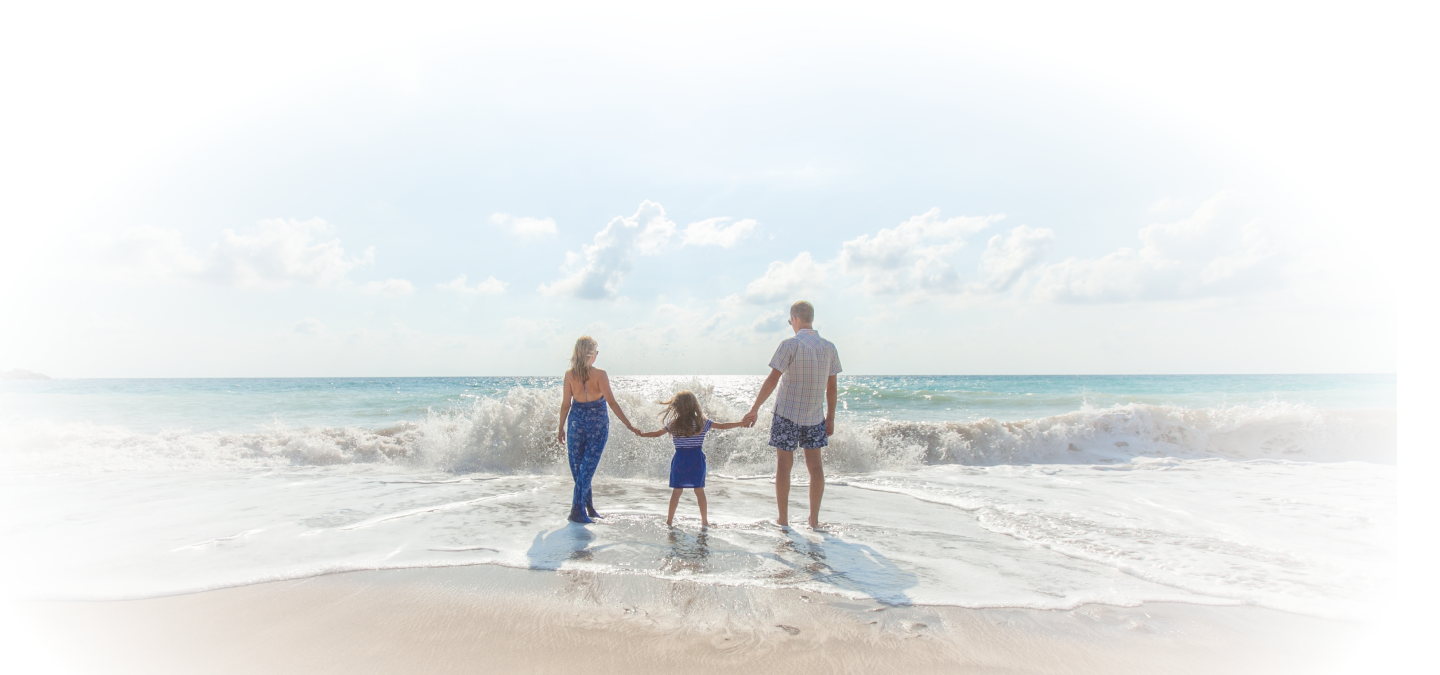
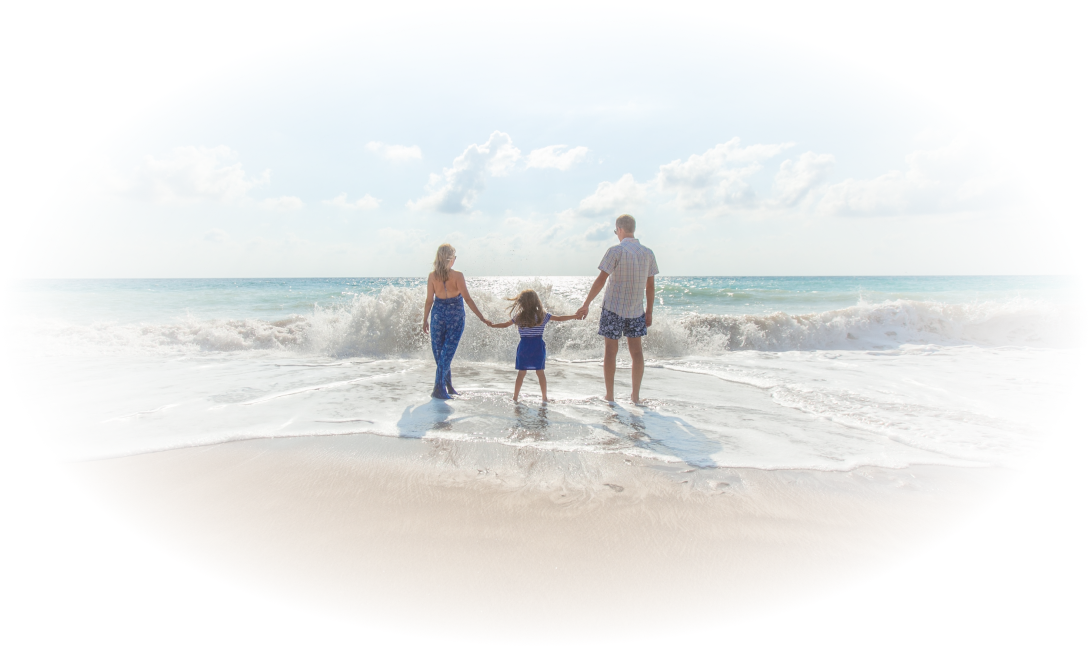
founded style

Changed region(s): [[0.0312, 0.3091, 0.9366, 1.0], [0.4059, 0.3091, 0.4683, 0.34], [0.843, 0.8346, 0.8742, 0.8655]]

diff --git a/public/css/style.less b/public/css/style.less
@@ -15,9 +15,54 @@ body {
     min-width: 600px;
     margin: auto;
     text-align: left;
+    .line_separator {
+        height: 1px;
+        background: white;
+        border-bottom: 1px solid #31303040;
+    }
+    header {
+        display:flex;
+        align-items: flex-start;
+        //flex-wrap: nowrap;
+        > .flex {
+            flex: 1 1 10%;
+        }
+        .navigation_wrapper {
+            height: 80px;
+            nav > ul {
+                //width: 500px;
+                display: flex;
+                flex-wrap: nowrap;
+                justify-content: space-between;
+                //flex-direction: row;
+                align-items: flex-start;
+                //flex-flow: nowrap;
+                //flex-wrap: wrap;
+                li {
+                    //flex: 1 1 20%;
+                    //padding: 10px;
+                    //background: #ffffffd1;
+                    //border-radius: 5px;
+                    text-align: center;
+                    //max-width: 140px;
+                    margin: 10px;
+                    padding: 10px;
+                    font-family: "Quicksand";
+                    border-right: 1px solid white;
+                    a {
+                        color: white;
+                        font-size: 1.2rem;
+                        text-shadow: 1px 1px 1px #00000054;
+                        text-decoration: none;
+                    }
+                }
+            }
+        }
+    }
     .company {
         width: 48%;
         height: 50px;
+        line-height: 4rem;
         color: white;
         font-size: 3rem;
         font-family: "Catamaran";
@@ -31,7 +76,7 @@ body {
         //justify-content: space-evenly;
         flex-flow: wrap;
         align-content: flex-end;
-        border: 1px solid yellow;
+        //border: 1px solid yellow;
         li {
             //flex: 1 0 0px;
             //max-width: 300px;
@@ -72,24 +117,27 @@ body {
         width: 42%;
         font-size: 2.2rem;
         color: white;
+        .small_data {
+            font-size: 1.4rem;
+        }
     }
     .beach_family_wrapper {
         //position: fixed;
-        //text-align: center;
+        text-align: center;
         width: 100%;
         height: 920px;
 
 
-        .beach_family {
-            background-image: url(/public/images/beach_family.png);
-            //background-origin: bottom;
-            background-repeat: no-repeat;
-            object-fit: cover;
-            background-position: center;
-            //width: 1440px;
-            //width: 100%;
-            height: 100%;
-        }
+        //.beach_family {
+        //    background-image: url(/public/images/beach_family.png);
+        //    //background-origin: bottom;
+        //    background-repeat: no-repeat;
+        //    object-fit: cover;
+        //    background-position: center;
+        //    //width: 1440px;
+        //    //width: 100%;
+        //    height: 100%;
+        //}
     }
 
 }

diff --git a/public/css/style.css b/public/css/style.css
@@ -13,9 +13,44 @@ body {
   margin: auto;
   text-align: left;
 }
+.content .line_separator {
+  height: 1px;
+  background: white;
+  border-bottom: 1px solid #31303040;
+}
+.content header {
+  display: flex;
+  align-items: flex-start;
+}
+.content header > .flex {
+  flex: 1 1 10%;
+}
+.content header .navigation_wrapper {
+  height: 80px;
+}
+.content header .navigation_wrapper nav > ul {
+  display: flex;
+  flex-wrap: nowrap;
+  justify-content: space-between;
+  align-items: flex-start;
+}
+.content header .navigation_wrapper nav > ul li {
+  text-align: center;
+  margin: 10px;
+  padding: 10px;
+  font-family: "Quicksand";
+  border-right: 1px solid white;
+}
+.content header .navigation_wrapper nav > ul li a {
+  color: white;
+  font-size: 1.2rem;
+  text-shadow: 1px 1px 1px #00000054;
+  text-decoration: none;
+}
 .content .company {
   width: 48%;
   height: 50px;
+  line-height: 4rem;
   color: white;
   font-size: 3rem;
   font-family: "Catamaran";
@@ -26,7 +61,6 @@ body {
   height: 100px;
   flex-flow: wrap;
   align-content: flex-end;
-  border: 1px solid yellow;
 }
 .content ul li {
   list-style-type: none;
@@ -60,15 +94,12 @@ body {
   font-size: 2.2rem;
   color: white;
 }
+.content .reachable_under .small_data {
+  font-size: 1.4rem;
+}
 .content .beach_family_wrapper {
+  text-align: center;
   width: 100%;
   height: 920px;
-}
-.content .beach_family_wrapper .beach_family {
-  background-image: url(/public/images/beach_family.png);
-  background-repeat: no-repeat;
-  object-fit: cover;
-  background-position: center;
-  height: 100%;
 }
 /*# sourceMappingURL=style.css.map */

diff --git a/insurance.html b/insurance.html
@@ -29,28 +29,28 @@
     </header>
     <div class="spacer"></div>
     <div class="line_separator"></div>
-    <div class="insurance_text">Versicherungen nach Maß</div>
+    <div class="insurance_text">Versicherungen</div>
     <div class="spacer"></div>
-    <div class="reachable_under">
-        Herr Pensky ist unter folgender Nummer zu erreichen
-        <div class="spacer"></div>
-        <br>
-        <div class="contact_data">
-            Kontakt
-            <br>
-            Mobil: 0157 / 34 41 59 13
-        </div>
-    </div>
+<!--    <div class="reachable_under">-->
+<!--        Herr Pensky ist unter folgender Nummer zu erreichen-->
+<!--        <div class="spacer"></div>-->
+<!--        <br>-->
+<!--        <div class="contact_data">-->
+<!--            Kontakt-->
+<!--            <br>-->
+<!--            Mobil: 0157 / 34 41 59 13-->
+<!--        </div>-->
+<!--    </div>-->
 
 <!--    <ul>-->
 <!--        <li><div class="box">one</div></li>-->
 <!--        <li><div class="box">two</div></li>-->
 <!--        <li><div class="box">three three three three</div></li>-->
 <!--    </ul>-->
-    <div class="beach_family_wrapper">
-<!--        <div class="beach_family"></div>-->
-        <img src="/public/images/beach_family.png">
-    </div>
+<!--    <div class="beach_family_wrapper">-->
+<!--&lt;!&ndash;        <div class="beach_family"></div>&ndash;&gt;-->
+<!--        <img src="/public/images/beach_family.png">-->
+<!--    </div>-->
 
 </div>
 </body>

diff --git a/contact.html b/contact.html
@@ -29,7 +29,7 @@
     </header>
     <div class="spacer"></div>
     <div class="line_separator"></div>
-    <div class="insurance_text">Versicherungen nach Maß</div>
+    <div class="insurance_text">Kontakt und Erreichbarkeit</div>
     <div class="spacer"></div>
     <div class="reachable_under">
         Herr Pensky ist unter folgender Nummer zu erreichen
@@ -40,6 +40,21 @@
             <br>
             Mobil: 0157 / 34 41 59 13
         </div>
+        <div class="spacer"></div>
+        <br>
+        <div class="contact_data">
+            Email: beyer.pensky@yahoo.de
+        </div>
+        <div class="spacer"></div>
+        <div class="contact_data">
+            Alternativ:
+            <br>
+            Festnetz: 040 / 721 56 28
+            <br>
+            <span class="small_data">
+                (Anrufbeantworter wird abgehört)
+            </span>
+        </div>
     </div>
 
 <!--    <ul>-->
@@ -47,10 +62,10 @@
 <!--        <li><div class="box">two</div></li>-->
 <!--        <li><div class="box">three three three three</div></li>-->
 <!--    </ul>-->
-    <div class="beach_family_wrapper">
-<!--        <div class="beach_family"></div>-->
-        <img src="/public/images/beach_family.png">
-    </div>
+<!--    <div class="beach_family_wrapper">-->
+<!--&lt;!&ndash;        <div class="beach_family"></div>&ndash;&gt;-->
+<!--        <img src="/public/images/beach_family.png">-->
+<!--    </div>-->
 
 </div>
 </body>
